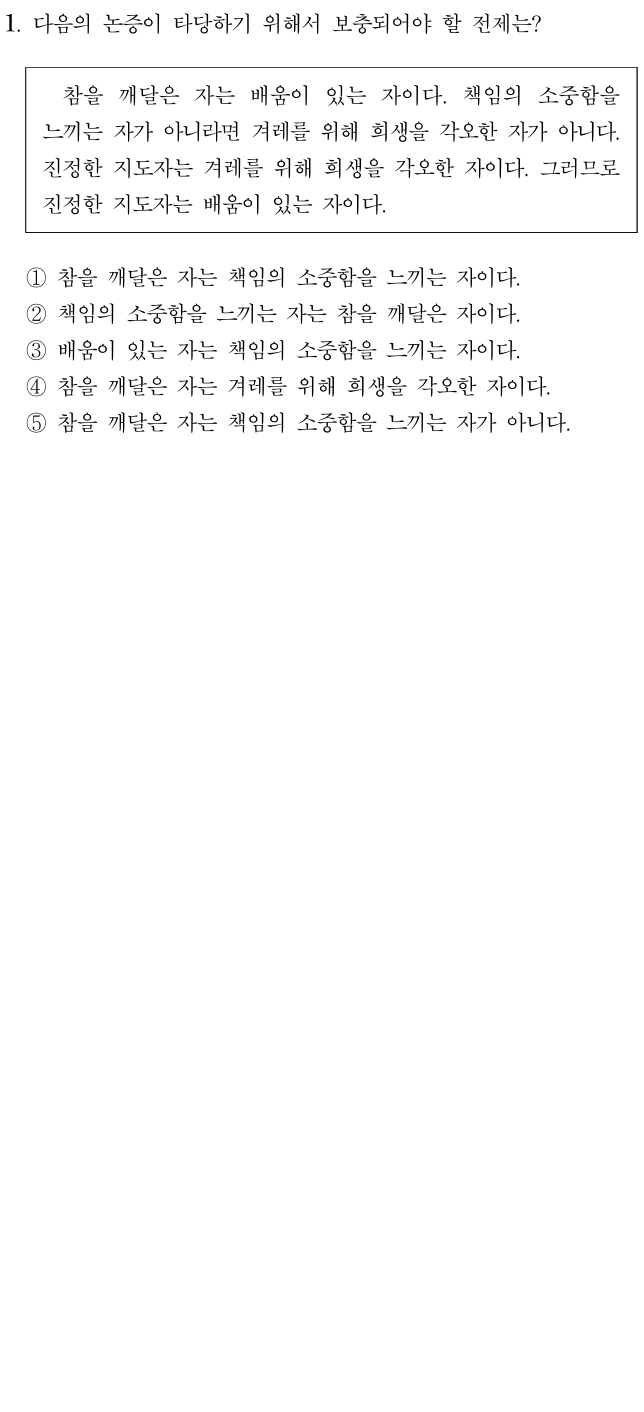
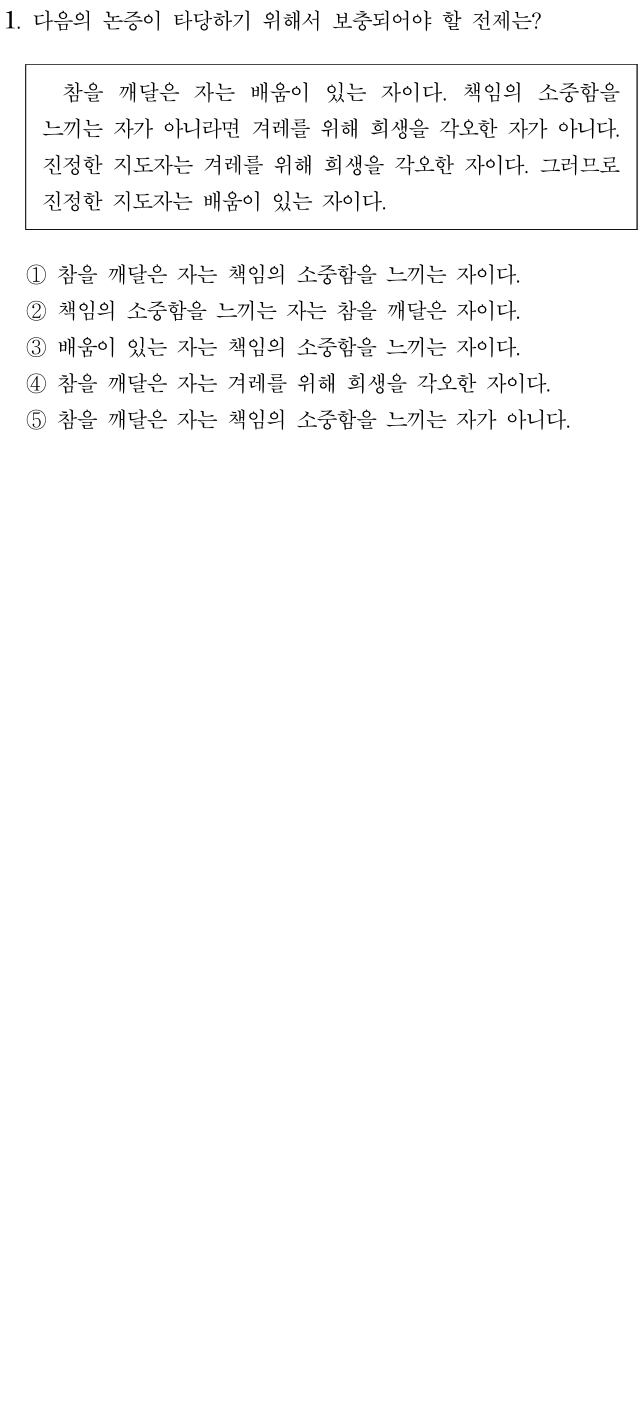
dd

diff --git a/logic.py b/logic.py
@@ -129,13 +129,27 @@ def create_answer_pdf(selections, title):
 
     return doc.write()
 
-# [4] 문제지 PDF 생성 로직 (PNG + _2.png 연달아 배치 + Z패턴 고정)
+# ... (앞부분 import 및 get_available_exams, create_answer_pdf 등은 그대로 유지) ...
+
+# [4] 문제지 PDF 생성 로직 (이어지는 문제 높이 개별 설정)
 def create_problem_pdf(user_selections, title, show_source, one_q_per_row, available_exams, progress_bar=None):
     final_font_path, title_font_path = get_fonts()
     
     doc = fitz.open()
     PT = 2.83465; PW = 297.0 * PT; PH = 420.0 * PT; MARGIN = 20 * PT; HEADER_H = 18 * PT; FOOTER_H = 25 * PT
-    COL_GAP = 12 * PT; COL_W = (PW - 2*MARGIN - COL_GAP)/2; START_Y = MARGIN + HEADER_H + 8
+    COL_GAP = 12 * PT; COL_W = (PW - 2*MARGIN - COL_GAP)/2
+    
+    # ====================================================================
+    # [설정] 시작 높이 조절 (여기서 숫자를 바꾸세요)
+    # ====================================================================
+    # 1. 일반 문제 시작 높이 (기존과 동일)
+    START_Y_NORMAL = MARGIN + HEADER_H + 7
+    
+    # 2. 이어지는 문제(_2) 시작 높이 (텍스트가 없으니 조금 더 위로 올려도 됨)
+    # 예: 일반 문제보다 20포인트 더 위로 올리고 싶으면 값을 줄이세요.
+    START_Y_CONT = MARGIN + HEADER_H + 55
+    # ====================================================================
+    
     font_alias = "my_font"; title_alias = "my_title"
     
     def draw_header(page, pg_num, title_text):
@@ -168,33 +182,24 @@ def create_problem_pdf(user_selections, title, show_source, one_q_per_row, avail
 
     pg_cnt = 0
     curr_page = None
-    
-    # [중요] 슬롯(칸) 인덱스: 0(왼쪽), 1(오른쪽), 2(다음페이지 왼쪽)...
     slot_idx = 0 
-    
-    # 진행률 표시용
     q_progress_idx = 0
     valid_count = len(user_selections)
 
     for i in sorted(user_selections.keys()):
         y_display, sn = user_selections[i]
         
-        # 폴더 경로 찾기
         folder_path = available_exams.get(y_display)
         if not folder_path:
             folder_path = available_exams.get(f"{y_display} (추리)", "")
-            
         if not folder_path: continue
 
-        # [이미지 수집] 기본 문제 + (있다면) 두 번째 페이지(_2)
         images_to_process = []
         
-        # 기본: 09.png
         img_1 = f"output/{folder_path}/{sn:02d}.png"
         if os.path.exists(img_1):
             images_to_process.append(img_1)
             
-            # 이어지는 문제 확인: 09_2.png 또는 09_02.png
             img_2_a = f"output/{folder_path}/{sn:02d}_2.png"
             img_2_b = f"output/{folder_path}/{sn:02d}_02.png"
             
@@ -203,24 +208,22 @@ def create_problem_pdf(user_selections, title, show_source, one_q_per_row, avail
             elif os.path.exists(img_2_b):
                 images_to_process.append(img_2_b)
         
-        # [배치 로직] 수집된 이미지들을 순서대로 슬롯에 배치
         for img_path in images_to_process:
+            is_continuation = "_2.png" in img_path or "_02.png" in img_path
+            
             with Image.open(img_path) as pim:
                 sw, sh = pim.size
                 ih = sh * (COL_W / sw)
-                hh = 20 if show_source else 0
+                hh = 20 if (show_source and not is_continuation) else 0
                 th = hh + ih
                 
                 is_left_col = False
                 
                 if one_q_per_row:
-                    # 1쪽 1문항 옵션: 매번 새 페이지
                     is_new_page = True
                     is_left_col = True
-                    # 슬롯 인덱스도 강제로 짝수(왼쪽)로 맞춤 (페이지 넘김 효과)
                     if slot_idx % 2 != 0: slot_idx += 1 
                 else:
-                    # Z패턴: 슬롯 인덱스가 짝수면 왼쪽(새페이지), 홀수면 오른쪽
                     if slot_idx % 2 == 0:
                         is_new_page = True
                         is_left_col = True
@@ -228,43 +231,49 @@ def create_problem_pdf(user_selections, title, show_source, one_q_per_row, avail
                         is_new_page = False
                         is_left_col = False
                 
-                # 새 페이지 생성
                 if is_new_page:
                     pg_cnt += 1
                     curr_page = doc.new_page(width=PW, height=PH)
                     draw_header(curr_page, pg_cnt, title)
-                    curr_page.draw_line((PW/2, START_Y), (PW/2, PH-FOOTER_H), color=(0.8,0.8,0.8), width=0.5)
+                    # 구분선은 일반 시작 높이 기준으로 그림 (일관성 유지)
+                    curr_page.draw_line((PW/2, START_Y_NORMAL), (PW/2, PH-FOOTER_H), color=(0.8,0.8,0.8), width=0.5)
                 
-                cy = START_Y
+                # [핵심] 문제 종류에 따라 시작 높이(cy) 결정
+                if is_continuation:
+                    cy = START_Y_CONT
+                else:
+                    cy = START_Y_NORMAL
+                
                 cx = MARGIN if is_left_col else MARGIN + COL_W + COL_GAP
                 
                 iy = cy
-                if show_source:
-                    # _2 파일인 경우 출처 표시에 (2) 등을 붙일 수도 있으나, 여기선 깔끔하게 원본 출처 유지
+                
+                if show_source and not is_continuation:
                     t = f"{y_display} LEET {sn}번"
                     if final_font_path: curr_page.insert_text((cx, cy+12), t, fontname=font_alias, fontfile=final_font_path, fontsize=9, color=(0.4,0.4,0.4))
                     else: curr_page.insert_text((cx, cy+12), t, fontsize=9, color=(0.4,0.4,0.4))
-                    iy += hh
+                    
+                iy += hh 
                 
                 r = fitz.Rect(cx, iy, cx+COL_W, iy+ih)
                 
-                # [PNG 포맷 삽입]
                 b = io.BytesIO()
                 pim.save(b, format='PNG') 
                 curr_page.insert_image(r, stream=b.getvalue())
                 b.close()
                 
-                curr_page.draw_rect(fitz.Rect(cx, iy, cx+17, iy+20), color=(1,1,1), fill=(1,1,1))
-                
-                # 문항 번호 (두 번째 페이지는 번호 생략할지 선택 가능하나, 현재는 일관성 있게 표시)
-                # 만약 _2 페이지에는 번호를 안 붙이고 싶다면 파일명 체크해서 skip 가능
-                ns = f"{i}."
-                if final_font_path:
-                    curr_page.insert_text((cx, iy+14), ns, fontname=font_alias, fontfile=final_font_path, fontsize=13, color=(0,0,0))
-                    curr_page.insert_text((cx+0.7, iy+14), ns, fontname=font_alias, fontfile=final_font_path, fontsize=13, color=(0,0,0))
-                else: curr_page.insert_text((cx, iy+14), ns, fontsize=13, color=(0,0,0))
+                if not is_continuation:
+                    # 지우개
+                    curr_page.draw_rect(fitz.Rect(cx, iy, cx+17, iy+20), color=(1,1,1), fill=(1,1,1))
+                    
+                    # 번호
+                    ns = f"{i}."
+                    if final_font_path:
+                        curr_page.insert_text((cx, iy+14), ns, fontname=font_alias, fontfile=final_font_path, fontsize=13, color=(0,0,0))
+                        curr_page.insert_text((cx+0.7, iy+14), ns, fontname=font_alias, fontfile=final_font_path, fontsize=13, color=(0,0,0))
+                    else:
+                        curr_page.insert_text((cx, iy+14), ns, fontsize=13, color=(0,0,0))
             
-            # 다음 슬롯으로 이동
             slot_idx += 1
         
         q_progress_idx += 1
